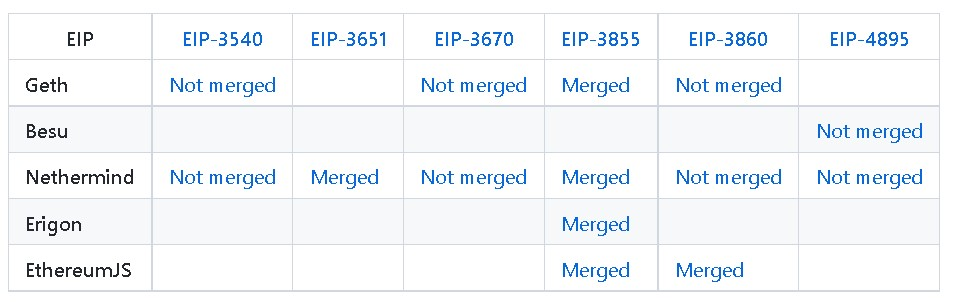
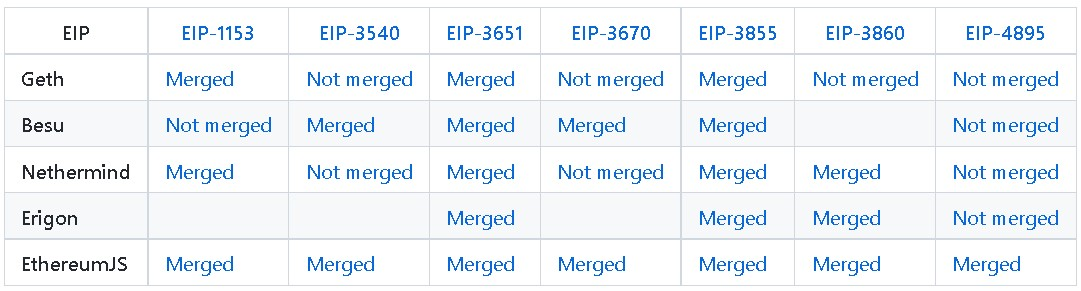
Readiness Checklist, EIP's inclusion

diff --git a/shanghai_upgrade/index.html b/shanghai_upgrade/index.html
@@ -292,19 +292,26 @@
                                     <h5 style="font-size: 22px;" class="fw-300 mt-12 container text-justify">
                                         <br>
                                         <b>Shanghai</b> is the next planned network upgrade on Ethereum Mainnet
-                                        which is expected to activate <i>Withdrawal</i> of staking rewards with <a href="https://eips.ethereum.org/EIPS/eip-4895">EIP-4895</a>.
+                                        which is expected to activate <i>Withdrawal</i> of staking rewards with <a
+                                            href="https://eips.ethereum.org/EIPS/eip-4895">EIP-4895</a>.
                                         This could be extremely beneficial for the on-chain validators.
                                         </br>
                                         <br>
-                                        Shanghai upgrade may bring significant feature upgrades to EVM with a set of proposals.  
-                                        EIP-3540, also known as the EVM Object Format (EOF) proposes an extensible and versioned 
-                                        container format for the EVM with a once-off validation at deploy time. 
-                                        There are a bunch of EIPs proposed bt team Epsilon for EVM improvement. 
+                                        Shanghai upgrade may bring significant feature upgrades to EVM with a set of
+                                        proposals.
+                                        EIP-3540, also known as the EVM Object Format (EOF) proposes an extensible and
+                                        versioned
+                                        container format for the EVM with a once-off validation at deploy time.
+                                        There are a bunch of EIPs proposed bt team Epsilon for EVM improvement.
                                         </br><br>
-                                        <b><a href="https://github.com/ethereumjs/ethereumjs-monorepo/issues/2298">Shandong</a></b> is the first experimental testnet deployed with a bunch of EOF EIPs by the Ethereum JS team. 
-                                        Community may expect multiple iterations of this testnet to test different CFI EIPs. 
+                                        <b><a
+                                                href="https://github.com/ethereumjs/ethereumjs-monorepo/issues/2298">Shandong</a></b>
+                                        is the first experimental testnet deployed with a bunch of EOF EIPs by the
+                                        Ethereum JS team.
+                                        Community may expect multiple iterations of this testnet to test different CFI
+                                        EIPs.
                                         </br>
-                                      </h5>
+                                    </h5>
                                     <div class="container">
                                         <a href="https://ethereum-magicians.org/t/shanghai-core-eip-consideration/10777"
                                             target="_blank"><button
@@ -327,19 +334,26 @@
                                         <h2>Readiness Checklist</h2>
                                         <p style="margin: 0px 0px 0px;font-size: 20px;">List of outstanding items
                                             before deployment.</p>
-                                        <p style="font-size: 20px;margin: 5px 0px;">Code merged into Participating Clients:
+                                        <p style="font-size: 20px;margin: 5px 0px;">Code merged into Participating
+                                            Clients:
                                         </p>
                                         <p style="font-size: 20px;margin-bottom: 10px;">For more Information on this
-                                            click <a href="https://github.com/ethereum/execution-specs/blob/master/network-upgrades/mainnet-upgrades/shanghai.md#readiness-checklist" class="dashed-underline">here</a>.</p>
-                                        <a
-                                            href="https://github.com/ethereum/execution-specs/blob/master/network-upgrades/mainnet-upgrades/shanghai.md#readiness-checklist" target="_blank"><img style="width: 100%;"
+                                            click <a
+                                                href="https://github.com/ethereum/execution-specs/blob/master/network-upgrades/mainnet-upgrades/shanghai.md#readiness-checklist"
+                                                class="dashed-underline">here</a>.</p>
+                                        <a href="https://github.com/ethereum/execution-specs/blob/master/network-upgrades/mainnet-upgrades/shanghai.md#readiness-checklist"
+                                            target="_blank"><img style="width: 100%;"
                                                 src="../img/general/readinesschecklist.jpg" alt=""></a>
                                     </div>
-                                    <div style="width: 40%;display: flex;flex-direction: column;justify-content: center;">
+                                    <div
+                                        style="width: 40%;display: flex;flex-direction: column;justify-content: center;">
                                         <h5 style="margin-bottom: 20px;">EOF Devnets Breakout Room</h5>
-                                        <iframe style="width: 100%;height: 60%;" src="https://www.youtube.com/embed/3Nx0z0-bhsU" frameborder="0"></iframe>
+                                        <iframe style="width: 100%;height: 60%;"
+                                            src="https://www.youtube.com/embed/3Nx0z0-bhsU" frameborder="0"></iframe>
                                         <p style="font-size: 18px;margin: 10px 0px 0px;">Nov 4, 2022, 14:00 UTC</p>
-                                        <p style="font-size: 18px;margin: 10px 0px 0px"><a class="dashed-underline" href="https://notes.ethereum.org/@timbeiko/eof-breakout" target="_blank">Notes of the meeting</a></p>
+                                        <p style="font-size: 18px;margin: 10px 0px 0px"><a class="dashed-underline"
+                                                href="https://notes.ethereum.org/@timbeiko/eof-breakout"
+                                                target="_blank">Notes of the meeting</a></p>
                                     </div>
                                 </div>
                             </section>
@@ -467,6 +481,55 @@
                                                     style="border: 2px solid black; border-radius: 5px;padding: 5px 10px;margin: 15px 0px;width: 49%;">EIP
                                                     Proposal</button></a>
                                             <a href="https://ethereum-magicians.org/t/eip-3651-warm-coinbase/6640"
+                                                target="_blank"><button
+                                                    style="border: 2px solid black; border-radius: 5px;padding: 5px 10px;margin: 15px 0px;width: 49%;">EIP
+                                                    Discussion</button></a>
+                                        </div>
+                                    </div>
+                                </section>
+                                <section style="margin-top: 80px;" class="row">
+                                    <div style="margin: 0px 20px;" class="col">
+                                        <a href="https://eips.ethereum.org/EIPS/eip-1153" target="_blank">
+                                            <h5>EIP-1153</h5>
+                                        </a>
+                                        <h5 style="text-align: justify; font-size: 20px; margin-top: 30px;height: 290px;"
+                                            class="fw-300"><i>EIP-1153: Transient storage opcodes</i> proposal
+                                            introduces
+                                            transient storage opcodes, which manipulate state that behaves identically
+                                            to storage, except that transient storage is discarded after every
+                                            transaction. In other words, the values of transient storage are never
+                                            deserialized from storage or serialized to storage. Thus transient storage
+                                            is cheaper since it never requires disk access. Transient storage is
+                                            accessible to smart contracts via 2 new opcodes, TLOAD and TSTORE, where “T”
+                                            stands for “transient:”</h5>
+
+                                        <div style="text-align: left;" class="">
+                                            <a href="https://eips.ethereum.org/EIPS/eip-1153" target="_blank"><button
+                                                    style="border: 2px solid black; border-radius: 5px;padding: 5px 10px;margin: 15px 0px;width: 49%;">EIP
+                                                    Proposal</button></a>
+                                            <a href="	https://ethereum-magicians.org/t/eip-transient-storage-opcodes/553"
+                                                target="_blank"><button
+                                                    style="border: 2px solid black; border-radius: 5px;padding: 5px 10px;margin: 15px 0px;width: 49%;">EIP
+                                                    Discussion</button></a>
+                                        </div>
+                                    </div>
+                                    <div style="margin: 0px 20px;" class="col">
+                                        <a href="https://eips.ethereum.org/EIPS/eip-2537" target="_blank">
+                                            <h5>EIP-2537</h5>
+                                        </a>
+                                        <h5 style="text-align: justify; font-size: 20px; margin-top: 30px;height: 290px;"
+                                            class="fw-300"><i>EIP-2537: Precompile for BLS12-381 curve operations</i>
+                                            introduce nine separate precompiles to perform the operations. Mapping
+                                            functions specification is included as a separate document. Mapping function
+                                            does NOT perform mapping of the byte string into field element (as it can be
+                                            implemented in many different ways and can be efficiently performed in EVM),
+                                            but only does field arithmetic to map field element into curve point. Such
+                                            functionality is required for signature schemes.</h5>
+                                        <div style="text-align: left;" class="">
+                                            <a href="https://eips.ethereum.org/EIPS/eip-2537" target="_blank"><button
+                                                    style="border: 2px solid black; border-radius: 5px;padding: 5px 10px;margin: 15px 0px;width: 49%;">EIP
+                                                    Proposal</button></a>
+                                            <a href="https://ethereum-magicians.org/t/eip2537-bls12-precompile-discussion-thread/4187"
                                                 target="_blank"><button
                                                     style="border: 2px solid black; border-radius: 5px;padding: 5px 10px;margin: 15px 0px;width: 49%;">EIP
                                                     Discussion</button></a>
